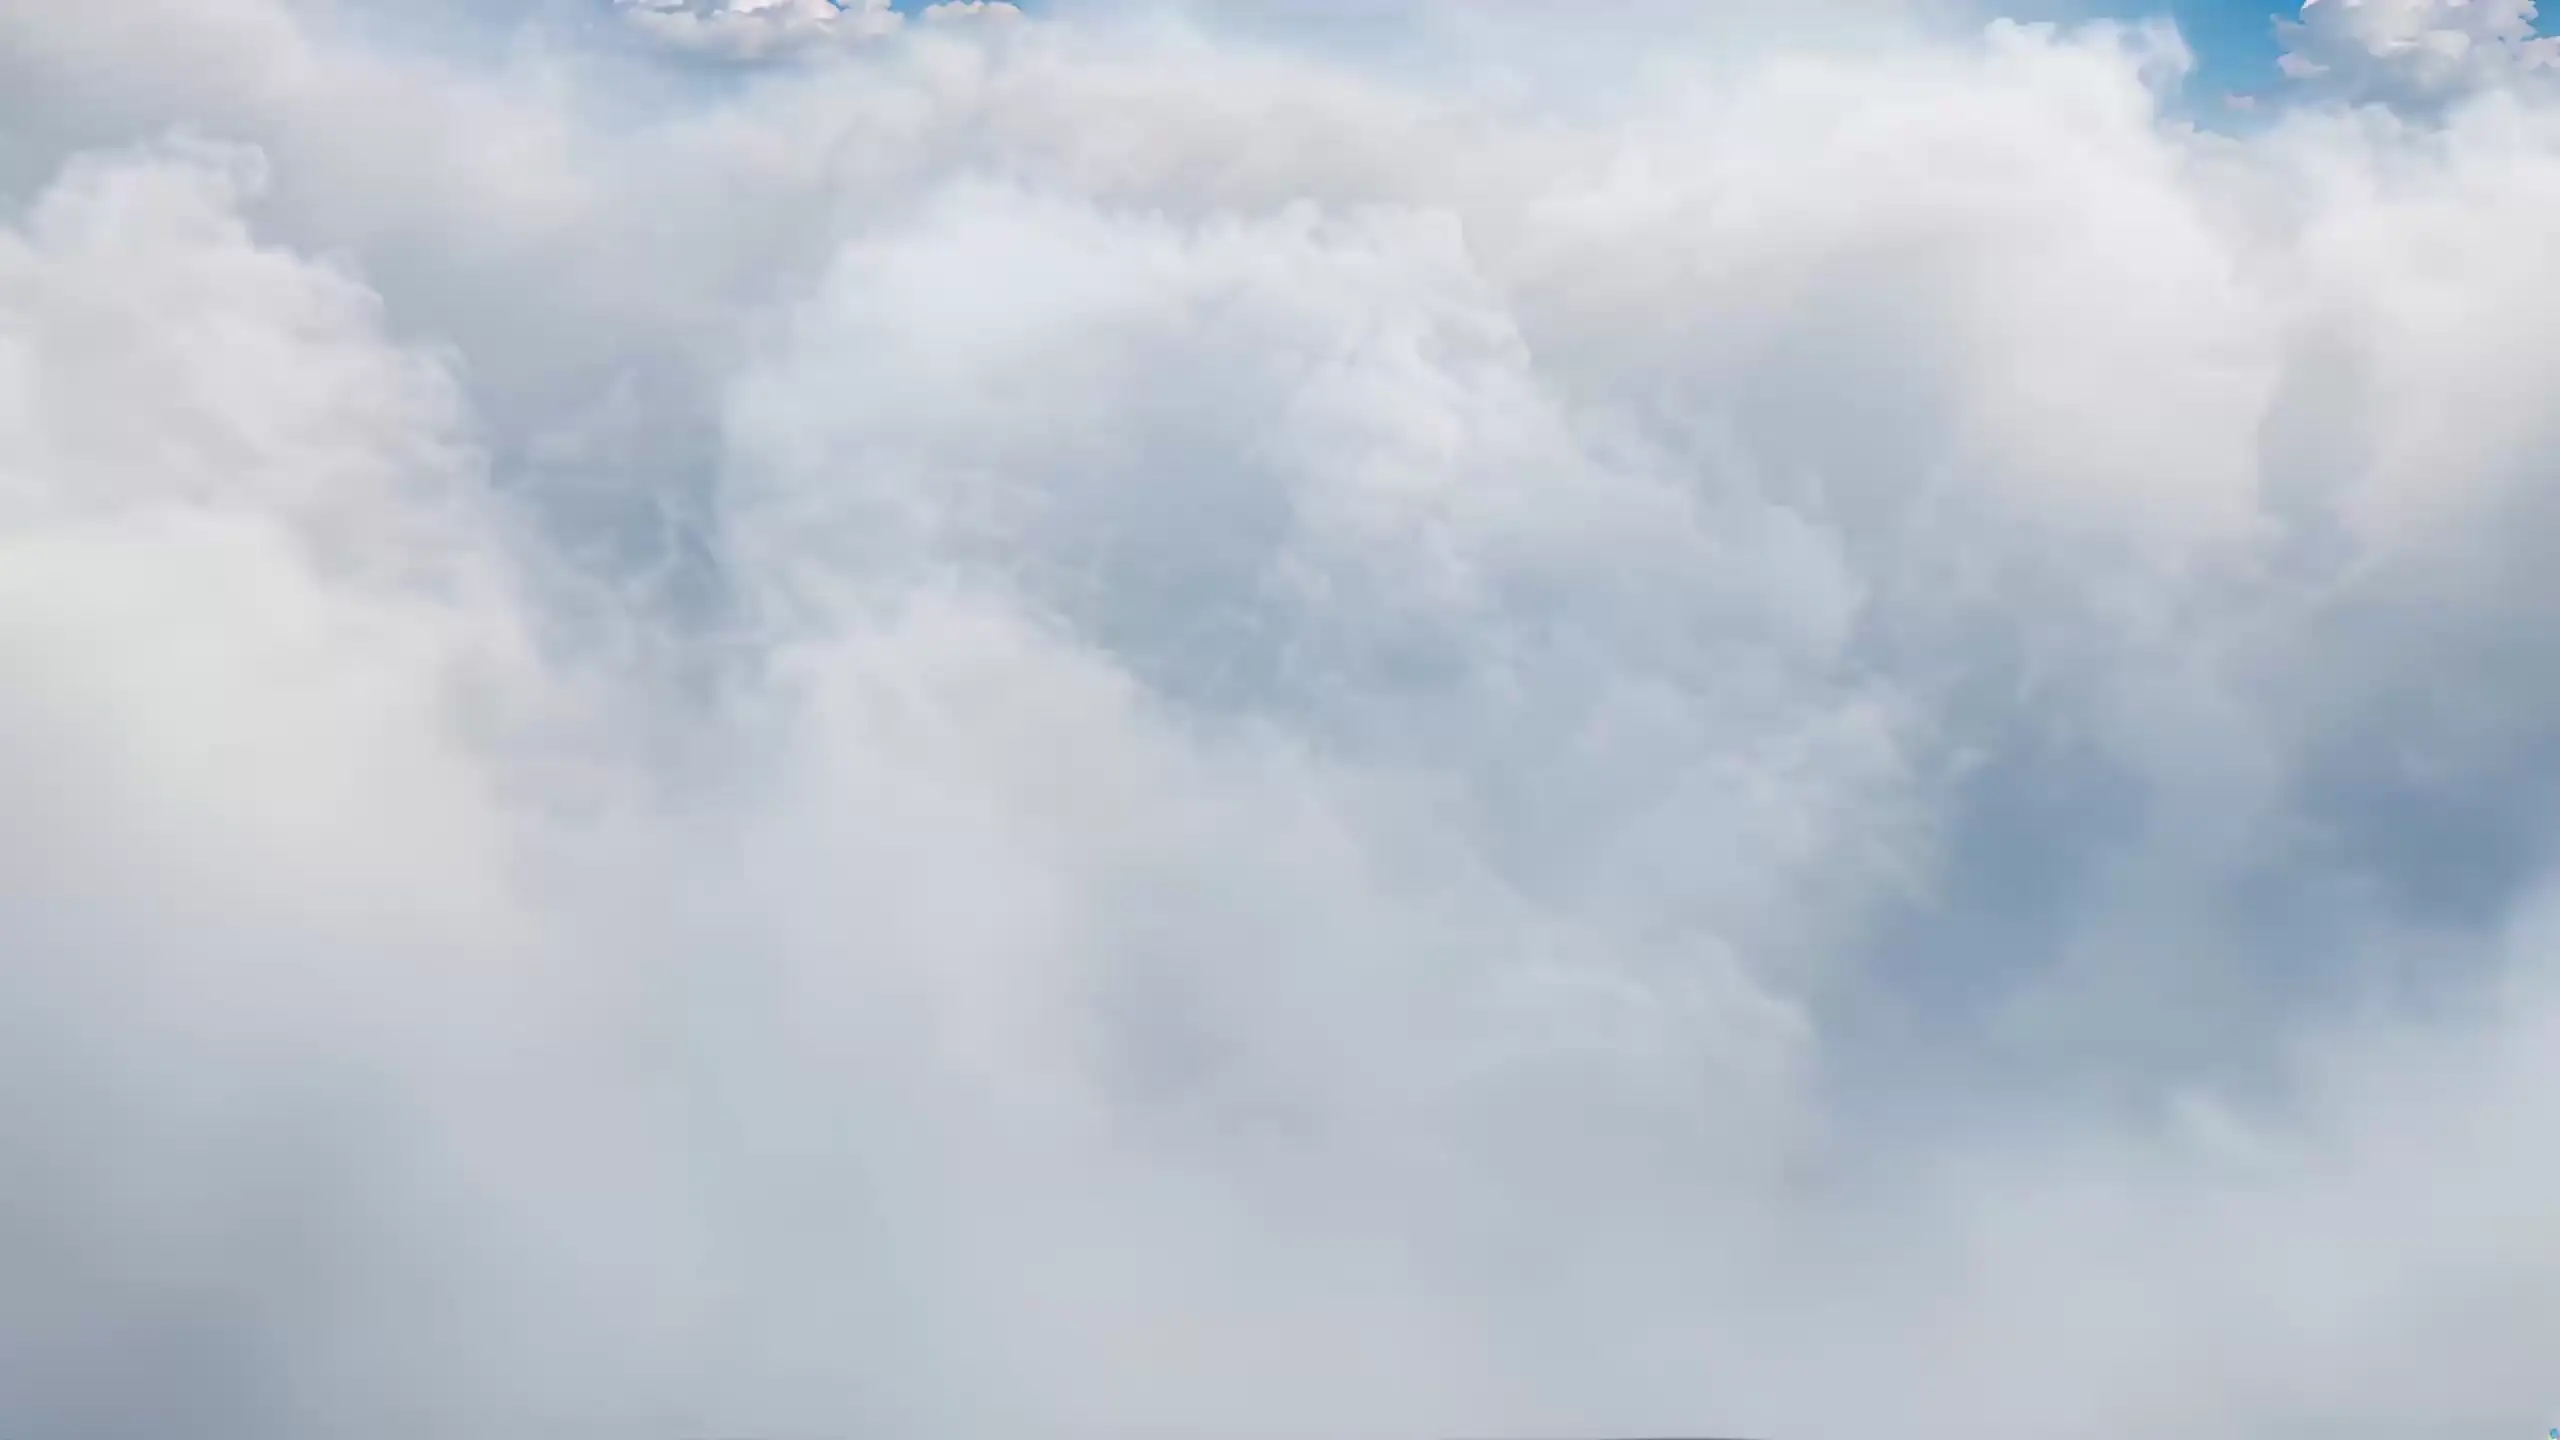
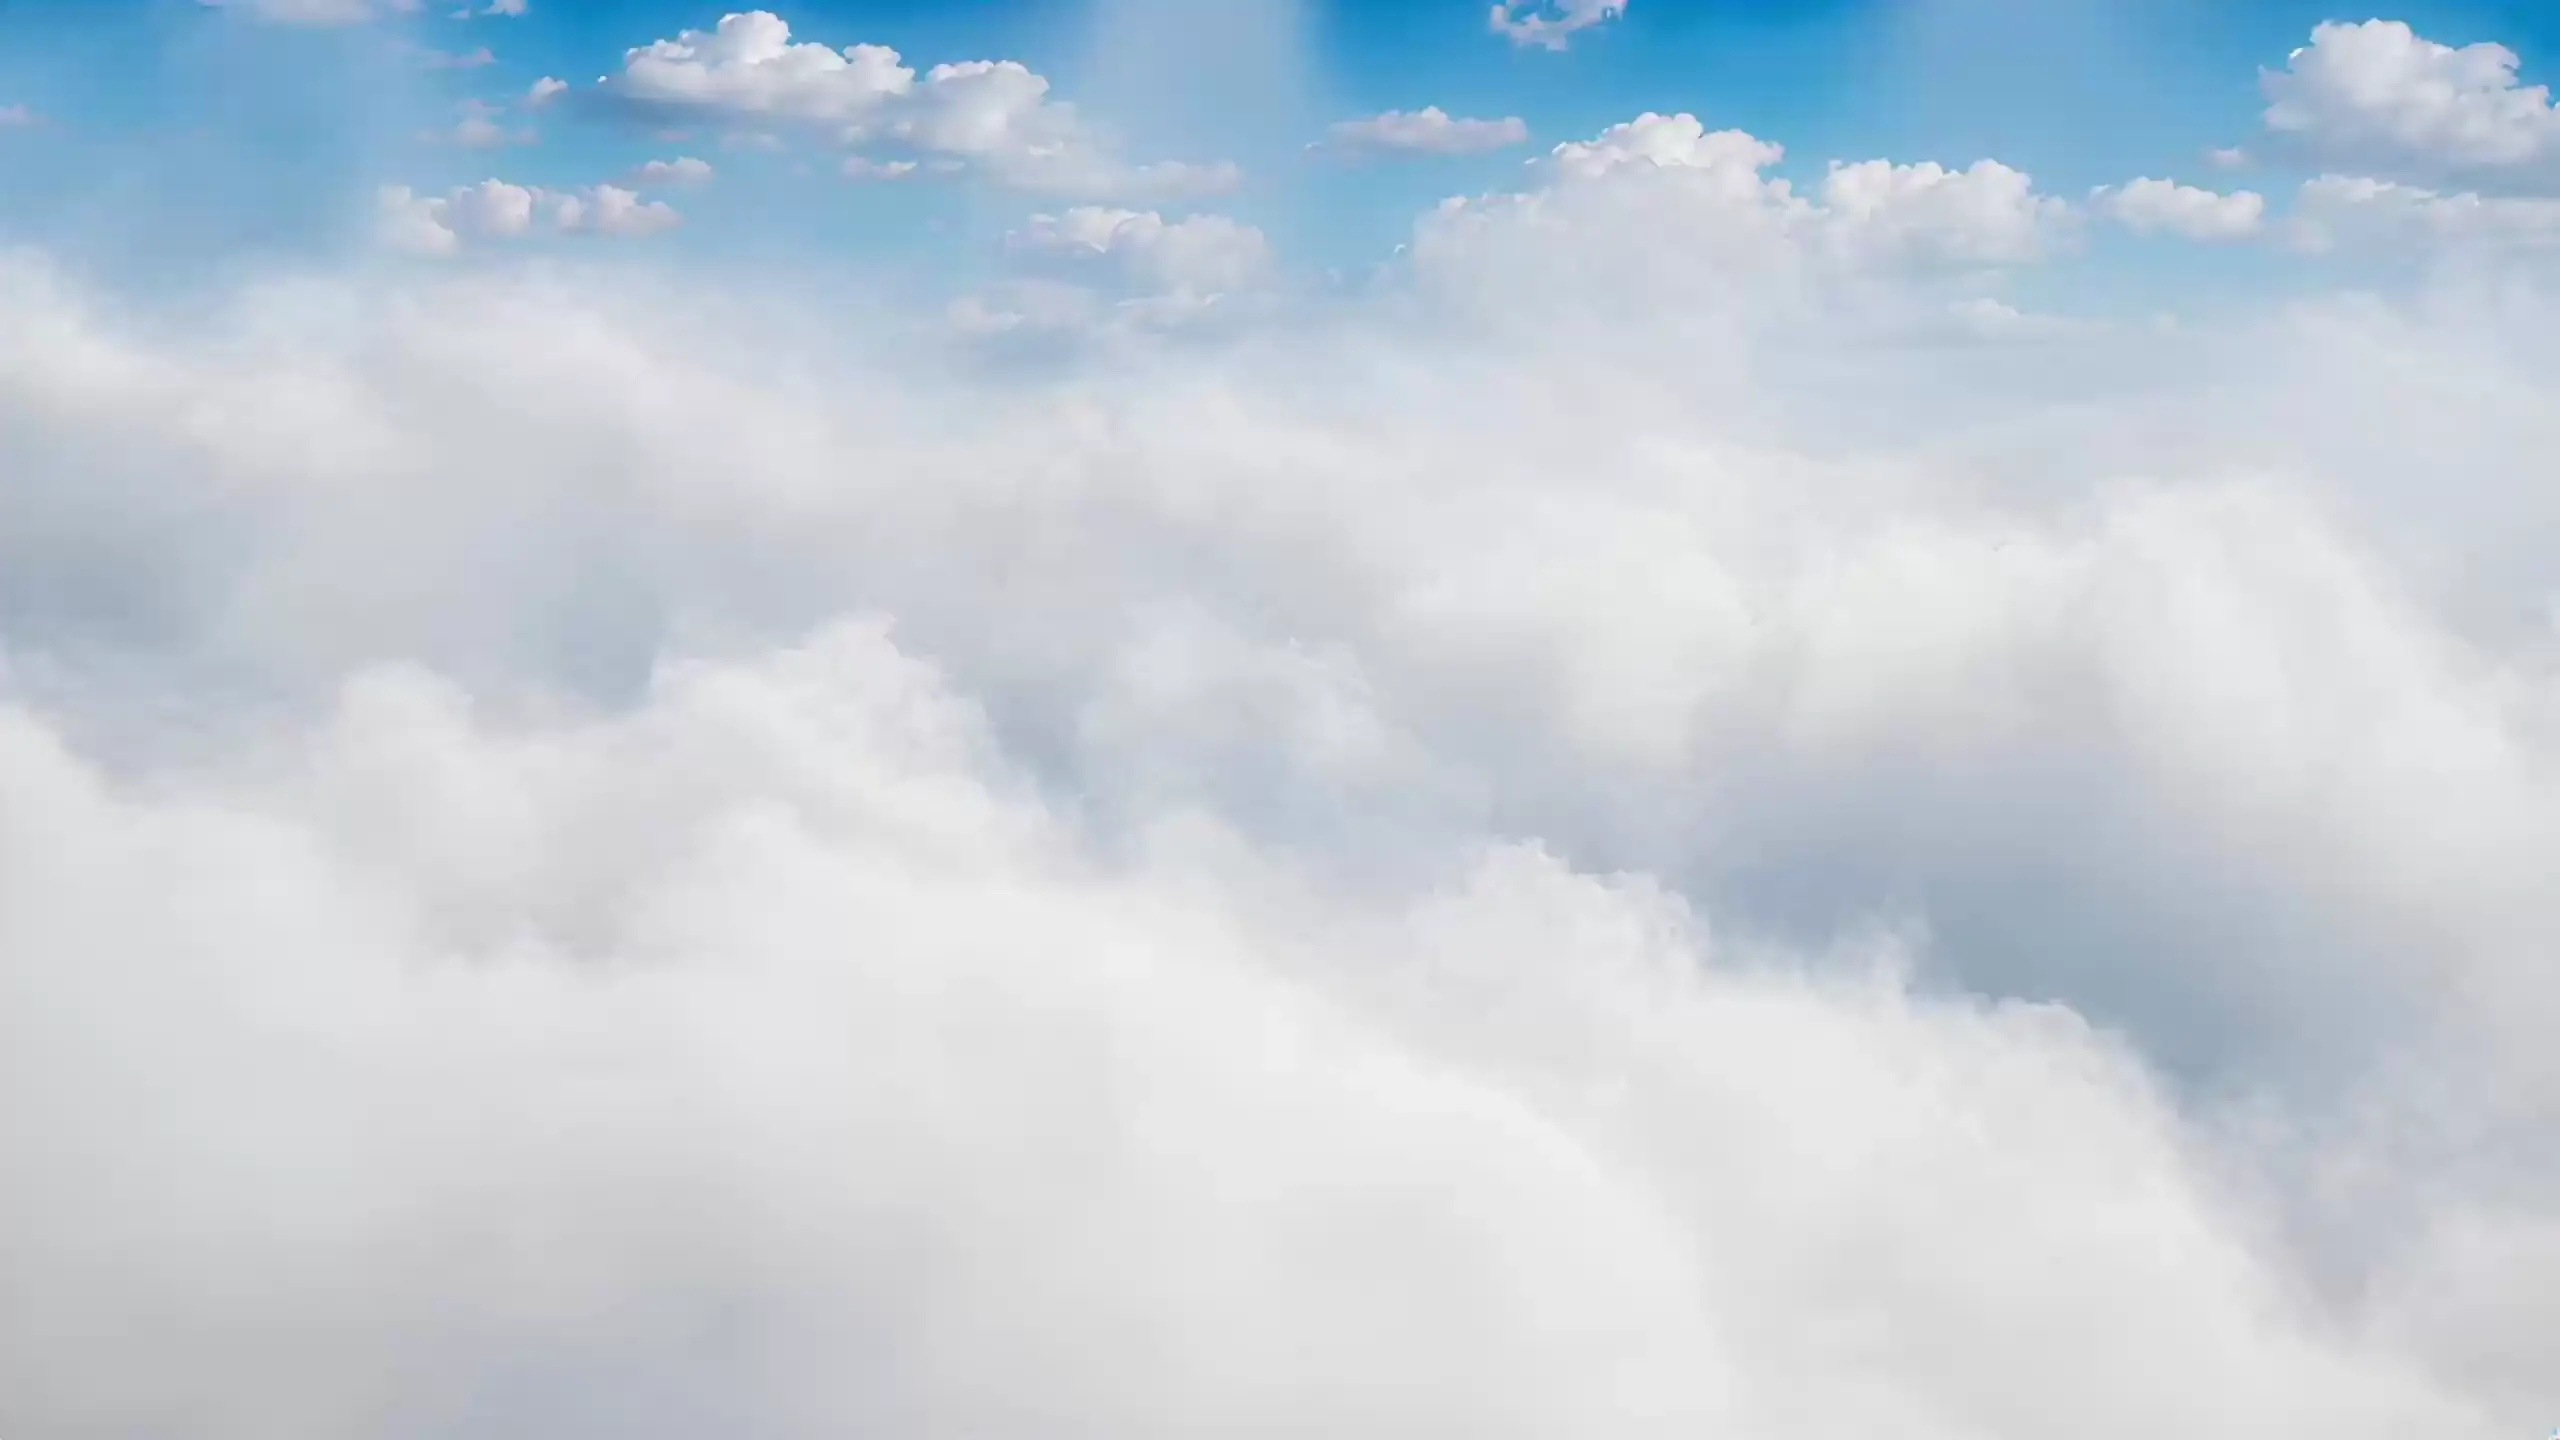
Updates

diff --git a/index.html b/index.html
@@ -65,10 +65,28 @@
       opacity: 1;
       transform: scale(1);
     }
+    .preloader-percentage-container {
+      margin-top: 24px;
+      opacity: 0;
+      transform: translateY(10px);
+      transition: opacity 1.2s cubic-bezier(0.4, 0, 0.2, 1), transform 1.2s cubic-bezier(0.4, 0, 0.2, 1);
+      transition-delay: 0.3s;
+    }
+    .preloader.show-logo .preloader-percentage-container {
+      opacity: 0.85;
+      transform: translateY(0);
+    }
+    .preloader-percentage {
+      font-family: 'Montserrat', sans-serif;
+      font-size: 16px;
+      font-weight: 500;
+      color: #fff;
+      letter-spacing: 2px;
+    }
   </style>
 
   <link rel="icon" type="image/svg+xml" href="assets/img/logo.svg">
-  <script type="module" crossorigin src="./assets/index-SiO4SoAd.js"></script>
+  <script type="module" crossorigin src="./assets/index-ijcMXMs9.js"></script>
   <link rel="stylesheet" crossorigin href="./assets/index-BlTjfina.css">
 </head>
 <body>
@@ -78,6 +96,9 @@
     <video id="preloaderVideo" class="preloader-video-bg" autoplay muted playsinline preload="auto" poster="assets/video/preloader_poster.webp" src="assets/video/preloader.mp4"></video>
     <div class="preloader-content">
       <img src="assets/img/logo.svg" alt="Redling Hotel Logo" class="preloader-logo">
+      <div class="preloader-percentage-container">
+        <span id="preloaderPercentage" class="preloader-percentage">0%</span>
+      </div>
     </div>
   </div>
 

diff --git a/assets/index-ijcMXMs9.js b/assets/index-ijcMXMs9.js
@@ -1,0 +1,1 @@
+(function(){const n=document.createElement("link").relList;if(n&&n.supports&&n.supports("modulepreload"))return;for(const r of document.querySelectorAll('link[rel="modulepreload"]'))t(r);new MutationObserver(r=>{for(const o of r)if(o.type==="childList")for(const c of o.addedNodes)c.tagName==="LINK"&&c.rel==="modulepreload"&&t(c)}).observe(document,{childList:!0,subtree:!0});function s(r){const o={};return r.integrity&&(o.integrity=r.integrity),r.referrerPolicy&&(o.referrerPolicy=r.referrerPolicy),r.crossOrigin==="use-credentials"?o.credentials="include":r.crossOrigin==="anonymous"?o.credentials="omit":o.credentials="same-origin",o}function t(r){if(r.ep)return;r.ep=!0;const o=s(r);fetch(r.href,o)}})();const y=[null,{forward:document.getElementById("videoRooms"),reverse:document.getElementById("videoRoomsRev")},{forward:document.getElementById("videoPool"),reverse:document.getElementById("videoPoolRev")},{forward:document.getElementById("videoRestaurant"),reverse:document.getElementById("videoRestaurantRev")},{forward:document.getElementById("videoAtmosphere"),reverse:document.getElementById("videoAtmosphereRev")},{forward:document.getElementById("videoContacts"),reverse:document.getElementById("videoContactsRev")}],d=document.getElementById("videoHero"),T=y.length,L=document.getElementById("sidebar"),w=document.getElementById("menuToggle"),I=document.getElementById("phoneBtn"),D=document.getElementById("phoneDropMenu"),X=document.querySelectorAll(".menu-link"),Y=["hero","rooms","pool","restaurant","atmosphere","contacts"];let l=0,p=!1;w&&L&&(w.addEventListener("click",e=>{e.stopPropagation(),w.classList.toggle("open"),L.classList.toggle("open")}),X.forEach(e=>{e.addEventListener("click",()=>{window.innerWidth<=991&&(w.classList.remove("open"),L.classList.remove("open"))})}),document.addEventListener("click",e=>{window.innerWidth<=991&&L.classList.contains("open")&&!L.contains(e.target)&&!w.contains(e.target)&&(w.classList.remove("open"),L.classList.remove("open"))}));I&&D&&(I.addEventListener("click",e=>{e.stopPropagation(),I.classList.toggle("open"),D.classList.toggle("show")}),document.addEventListener("click",e=>{!I.contains(e.target)&&!D.contains(e.target)&&(I.classList.remove("open"),D.classList.remove("show"))}));X.forEach(e=>{e.addEventListener("click",n=>{n.preventDefault();const s=e.getAttribute("href");if(!s||!s.startsWith("#"))return;const t=Y.indexOf(s.slice(1));t!==-1&&t!==l&&!p&&E(t)})});function ne(e){const n=Y[e];X.forEach(s=>{s.classList.toggle("active",s.getAttribute("href")===`#${n}`)})}function P(e){document.querySelectorAll(".content-section").forEach((s,t)=>{s.classList.toggle("active",t===e),t===e&&(s.scrollTop=0,requestAnimationFrame(()=>{s.scrollTop=0}))}),e===Y.indexOf("contacts")&&se()}const R=document.querySelector("#contacts .map-wrapper iframe");function se(){R&&R.dataset.src&&(R.src=R.dataset.src,R.removeAttribute("data-src"))}const G=document.getElementById("mapTouchGuard");G&&G.addEventListener("click",()=>{se(),G.classList.add("hidden")});function $(){if(window.innerWidth>991)return null;const e=document.querySelector(".content-section.active");return e&&e.scrollHeight>e.clientHeight+1?e:null}function ce(){d.style.opacity="1",d.style.zIndex="1",d.style.transition="none";for(let e=1;e<T;e++){const n=y[e];n.forward.style.opacity="0",n.forward.style.zIndex="1",n.forward.style.transition="none",n.forward.pause(),n.reverse.style.opacity="0",n.reverse.style.zIndex="1",n.reverse.style.transition="none",n.reverse.pause()}}function j(e){return e===0?d:y[e].forward}function C(e,n=0){return new Promise(s=>{if(isNaN(e.duration)||e.duration===0){e.currentTime=n,s();return}const t=()=>{e.removeEventListener("seeked",t),s()};e.addEventListener("seeked",t),e.currentTime=n,setTimeout(()=>{e.removeEventListener("seeked",t),s()},150)})}const W=new Map;function x(e){if(!e)return Promise.resolve();if(W.has(e))return W.get(e);if(e.dataset.src&&!e.getAttribute("src")&&(e.src=e.dataset.src,e.removeAttribute("data-src"),e.preload="auto",e.load()),e.readyState>=3){const s=Promise.resolve();return W.set(e,s),s}const n=new Promise(s=>{const t=()=>{e.removeEventListener("canplaythrough",t),e.removeEventListener("error",t),clearTimeout(r),s()},r=setTimeout(t,8e3);e.addEventListener("canplaythrough",t),e.addEventListener("error",t)});return W.set(e,n),n}let J=!1;function le(){if(!J){J=!0;for(let e=1;e<T;e++)y[e]&&(x(y[e].forward),x(y[e].reverse))}}async function E(e){if(e===l||e<0||e>=T||p)return;p=!0,ne(e),P(-1);const n=e>l,s=l,t=j(s),r=s===0||e===0;if(n){const o=y[e].forward;await x(o),o.style.opacity="0",o.style.transition="none",await C(o,0),r?(o.style.zIndex="2",o.style.transition="opacity 0.2s ease",o.style.opacity="1",o.play().catch(()=>{}),setTimeout(()=>{t.style.opacity="0",t.pause()},200)):(o.style.zIndex="1",o.style.transition="none",o.style.opacity="1",t.style.opacity="0",t.pause(),o.play().catch(()=>{})),o.onended=()=>{o.pause(),o.onended=null,r&&(o.style.zIndex="1",o.style.transition="none"),l=e,P(e),p=!1}}else{const o=y[s].reverse,c=j(e);await Promise.all([x(o),x(c)]),o.style.opacity="0",o.style.transition="none",await C(o,0),r?(o.style.zIndex="2",o.style.transition="opacity 0.2s ease",o.style.opacity="1",o.play().catch(()=>{}),setTimeout(async()=>{t.style.opacity="0",t.pause(),c.currentTime=0,c.loop=!0,c.style.opacity="1",c.style.zIndex="1",c.style.transition="none";try{await c.play()}catch{}},200),o.onended=()=>{o.pause(),o.onended=null,o.style.transition="opacity 0.2s ease",o.style.opacity="0",P(e),setTimeout(()=>{o.style.zIndex="1",o.style.transition="none",l=e,p=!1},200)}):(await C(c,c.duration-.01),c.pause(),o.style.opacity="1",t.style.opacity="0",t.pause(),o.play().catch(()=>{}),o.onended=()=>{o.pause(),o.onended=null,c.style.opacity="1",o.style.opacity="0",l=e,P(e),p=!1})}}let A=0;const ee=50;function de(e){const n=$();if(n){const s=n.scrollTop<=0,t=n.scrollTop+n.clientHeight>=n.scrollHeight-1;if(e.deltaY>0&&!t||e.deltaY<0&&!s)return}e.preventDefault(),!p&&(A+=e.deltaY,A>ee?(A=0,l<T-1&&E(l+1)):A<-ee&&(A=0,l>0&&E(l-1)))}document.addEventListener("wheel",de,{passive:!1});let re=0,ae=0;const te=60;document.addEventListener("touchstart",e=>{re=e.touches[0].clientY;const n=document.querySelector(".content-section.active");ae=n?n.scrollTop:0},{passive:!0});document.addEventListener("touchend",e=>{if(p)return;const n=re-e.changedTouches[0].clientY,s=$();if(s){if(Math.abs(s.scrollTop-ae)>2)return;const t=s.scrollTop<=1,r=s.scrollTop+s.clientHeight>=s.scrollHeight-2;if(n>0&&!r||n<0&&!t)return}n>te&&l<T-1?E(l+1):n<-te&&l>0&&E(l-1)},{passive:!0});document.addEventListener("touchmove",e=>{const n=$();n&&n.contains(e.target)||e.preventDefault()},{passive:!1});document.addEventListener("keydown",e=>{p||(e.key==="ArrowDown"||e.key==="PageDown"?(e.preventDefault(),l<T-1&&E(l+1)):(e.key==="ArrowUp"||e.key==="PageUp")&&(e.preventDefault(),l>0&&E(l-1)))});const g=document.getElementById("videoModal"),O=document.getElementById("youtubeIframe"),oe=document.getElementById("openVideoBtn"),F=document.getElementById("closeVideoBtn");oe&&g&&O&&oe.addEventListener("click",e=>{e.preventDefault(),O.src="https://www.youtube.com/embed/n7kd0tzGD2s?autoplay=1",g.style.display="flex",setTimeout(()=>g.classList.add("show"),10)});F&&g&&O&&(F.addEventListener("click",()=>{g.classList.remove("show"),setTimeout(()=>{g.style.display="none",O.src=""},300)}),g.addEventListener("click",e=>{e.target===g&&F.click()}));ce();ne(0);P(0);const H=document.getElementById("preloader");if(H){let o=function(){var B;const u=d?d.readyState>=3:!0,m=(B=y[1])==null?void 0:B.forward,f=m?m.readyState>=3:!0;return u&&f},i=function(){s&&e&&n&&o()&&h()},h=function(){H.classList.contains("fade-out")||(clearTimeout(k),H.classList.add("fade-out"),d&&d.play().catch(u=>console.log("Hero autoplay blocked/failed:",u)))};var fe=o,pe=i,ye=h;let e=!1,n=!1,s=!1;const t=document.getElementById("preloaderVideo"),r=document.getElementById("preloaderPercentage"),c=()=>{if(!t||!t.duration)return;const u=t.currentTime,m=t.duration||7;let f=0;s?f=100:f=Math.min(97,Math.floor(u/m*98)),r&&(r.textContent=`${f}%`)};if(t?(t.playbackRate=1,t.addEventListener("timeupdate",()=>{c(),t.currentTime>=6.7&&(!o()||!n?t.playbackRate=.15:t.playbackRate=1)}),t.addEventListener("ended",()=>{s=!0,r&&(r.textContent="100%"),i()})):s=!0,setTimeout(()=>{H.classList.add("show-logo")},1e3),d)if(d.readyState>=3)e=!0,i();else{const u=()=>{e=!0,i(),d.removeEventListener("canplay",u),d.removeEventListener("canplaythrough",u),d.removeEventListener("loadeddata",u)};d.addEventListener("canplay",u),d.addEventListener("canplaythrough",u),d.addEventListener("loadeddata",u)}else e=!0;document.readyState==="complete"?(n=!0,i()):window.addEventListener("load",()=>{n=!0,i()});const k=setTimeout(()=>{s=!0,e=!0,n=!0,h()},12e3)}else d&&d.play().catch(()=>{});le();const N={ru:{"nav.hero":"Главная","nav.rooms":"Номера","nav.pool":"Бассейн и Летняя зона","nav.restaurant":"Ресторан","nav.atmosphere":"Атмосфера","nav.contacts":"Контакты","nav.offers":"★ АКЦИИ ★","credits.text":"Создание сайта","hero.subtitle":"ваш уютный дом у моря в Одессе","hero.subhead":"Премиальный комфорт для семейного отдыха и деловых поездок.","hero.text":"Всего 500 метров до пляжа, вдали от городского шума.","hero.cta":"Забронировать номер","hero.video":"Смотреть видео","rooms.subtitle":"★ Дизайнерские номера с премиальным комфортом","rooms.title":"Пространство для идеального отдыха","rooms.text":"Просторные дизайнерские номера с премиальной шумоизоляцией и ортопедическими матрасами. Здесь есть всё для глубокого сна после пляжа или продуктивной работы в тишине.","rooms.cta":"Выбрать номер","rooms.benefit1":"Шумоизоляция","rooms.benefit2":"Ортопедические матрасы","rooms.benefit3":"Wi-Fi","rooms.benefit4":"Мини-бар","pool.subtitle":"★ Бассейн и Летняя зона","pool.title":"Освежающий<br>летний вайб","pool.text":"Огромный открытый бассейн (80 м²) с лаунж-зоной и удобными шезлонгами. Идеальное место, чтобы поймать ленивое курортное настроение, не покидая территорию отеля.","pool.benefit1":"80 м² бассейн","pool.benefit2":"Лаунж-бар","pool.benefit3":"Шезлонги","restaurant.subtitle":"★ Ресторан Redling","restaurant.title":"Гастрономическая<br>Одесса","restaurant.text":"Авторское прочтение черноморской и европейской кухни в стильном классическом интерьере. Лаундж-зона для неторопливых ужинов и раздельные залы для курящих и некурящих.","restaurant.cta":"Забронировать столик","restaurant.menu":"Меню ресторана","restaurant.weekdays":"Будни:","restaurant.weekends":"Выходные:","atmosphere.subtitle":"★ Об отеле","atmosphere.title":"Атмосфера, в которую<br>хочется возвращаться","atmosphere.text":"Redling — это сочетание искреннего одесского гостеприимства и европейского сервиса. Мы создали пространство, где вы чувствуете себя абсолютно свободно, окруженные заботой нашей команды 24/7.","atmosphere.gallery_btn":"Посмотреть фото","contacts.subtitle":"★ Локация и Контакты","contacts.title":"Ждем вас<br>в Redling","contacts.fact1":"500 метров до моря — 7 минут пешком","contacts.fact2":"ул. Дача Ковалевского, 71, Одесса","contacts.fact3":"10 км до центра — тихий, зелёный район","contacts.reception":"Ресепшен","contacts.restaurant":"Ресторан","contacts.email":"Email","contacts.route":"Построить маршрут","contacts.map_hint":"Нажмите, чтобы управлять картой"},en:{"nav.hero":"Home","nav.rooms":"Rooms","nav.pool":"Pool & Summer Zone","nav.restaurant":"Restaurant","nav.atmosphere":"Atmosphere","nav.contacts":"Contacts","nav.offers":"★ OFFERS ★","credits.text":"Website Design","hero.subtitle":"your cozy home by the sea in Odesa","hero.subhead":"Premium comfort for family holidays and business trips.","hero.text":"Only 500 meters to the beach, far from city noise.","hero.cta":"Book a room","hero.video":"Watch video","rooms.subtitle":"★ Designer rooms with premium comfort","rooms.title":"Space for perfect relaxation","rooms.text":"Spacious designer rooms with premium soundproofing and orthopedic mattresses. Everything you need for a deep sleep after the beach or productive work in silence.","rooms.cta":"Choose a room","rooms.benefit1":"Soundproofing","rooms.benefit2":"Orthopedic mattresses","rooms.benefit3":"Wi-Fi","rooms.benefit4":"Minibar","pool.subtitle":"★ Pool & Summer Zone","pool.title":"Refreshing<br>summer vibe","pool.text":"Huge outdoor swimming pool (80 m²) with a lounge area and comfortable sunbeds. The perfect place to catch a lazy resort mood without leaving the hotel grounds.","pool.benefit1":"80 m² Pool","pool.benefit2":"Lounge Bar","pool.benefit3":"Sunbeds","restaurant.subtitle":"★ Redling Restaurant","restaurant.title":"Gastronomic<br>Odesa","restaurant.text":"Author's interpretation of Black Sea and European cuisine in a stylish classic interior. Lounge area for leisurely dinners and separate halls for smokers and non-smokers.","restaurant.cta":"Book a table","restaurant.menu":"Restaurant menu","restaurant.weekdays":"Weekdays:","restaurant.weekends":"Weekends:","atmosphere.subtitle":"★ About Hotel","atmosphere.title":"Atmosphere you<br>want to return to","atmosphere.text":"Redling is a combination of genuine Odesa hospitality and European service. We have created a space where you feel absolutely free, surrounded by the care of our team 24/7.","atmosphere.gallery_btn":"See photos","contacts.subtitle":"★ Location & Contacts","contacts.title":"Waiting for you<br>at Redling","contacts.fact1":"500 meters to the sea — 7 minutes walk","contacts.fact2":"71 Dacha Kovalevskoho St, Odesa","contacts.fact3":"10 km to the center — quiet, green area","contacts.reception":"Reception","contacts.restaurant":"Restaurant","contacts.email":"Email","contacts.route":"Get directions","contacts.map_hint":"Tap to interact with the map"},ua:{"nav.hero":"Головна","nav.rooms":"Номери","nav.pool":"Басейн та Літня зона","nav.restaurant":"Ресторан","nav.atmosphere":"Атмосфера","nav.contacts":"Контакти","nav.offers":"★ АКЦІЇ ★","credits.text":"Створення сайту","hero.subtitle":"ваш затишний дім біля моря в Одесі","hero.subhead":"Преміальний комфорт для сімейного відпочинку та ділових поїздок.","hero.text":"Всього 500 метрів до пляжу, далеко від міського шуму.","hero.cta":"Забронювати номер","hero.video":"Дивитися відео","rooms.subtitle":"★ Дизайнерські номери з преміальним комфортом","rooms.title":"Простір для ідеального відпочинку","rooms.text":"Просторі дизайнерські номери з преміальною шумоізоляцією та ортопедичними матрацами. Тут є все для глибокого сну після пляжу або продуктивної роботи в тиші.","rooms.cta":"Обрати номер","rooms.benefit1":"Шумоізоляція","rooms.benefit2":"Ортопедичні матраци","rooms.benefit3":"Wi-Fi","rooms.benefit4":"Міні-бар","pool.subtitle":"★ Басейни та Літня зона","pool.title":"Освіжаючий<br>літній вайб","pool.text":"Величезний відкритий басейн (80 м²) з лаунж-зоною та зручними шезлонгами. Ідеальне місце, щоб зловити ледачий курортний настрій, не покидаючи територію готелю.","pool.benefit1":"80 м² басейн","pool.benefit2":"Лаунж-бар","pool.benefit3":"Шезлонги","restaurant.subtitle":"★ Ресторан Redling","restaurant.title":"Гастрономічна<br>Одеса","restaurant.text":"Авторське прочитання чорноморської та європейської кухні в стильному класичному інтер'єрі. Лаунж-зона для неспішних вечерь та окремі зали для курців та некурців.","restaurant.cta":"Забронювати столик","restaurant.menu":"Меню ресторану","restaurant.weekdays":"Будні:","restaurant.weekends":"Вихідні:","atmosphere.subtitle":"★ Про готель","atmosphere.title":"Атмосфера, в яку<br>хочеться повертатися","atmosphere.text":"Redling — це поєднання щирої одеської гостинності та європейського сервісу. Ми створили простір, де ви почуваєтеся абсолютно вільно, оточені турботою нашої команди 24/7.","atmosphere.gallery_btn":"Подивитися фото","contacts.subtitle":"★ Локація та Контакты","contacts.title":"Чекаємо на вас<br>в Redling","contacts.fact1":"500 метрів до моря — 7 хвилин пішки","contacts.fact2":"вул. Дача Ковалевського, 71, Одеса","contacts.fact3":"10 км до центру — тихий, зелений район","contacts.reception":"Ресепшн","contacts.restaurant":"Ресторан","contacts.email":"Email","contacts.route":"Побудувати маршрут","contacts.map_hint":"Натисніть, щоб керувати картою"}};function ue(){const e=document.querySelectorAll(".lang-link"),n=t=>{localStorage.setItem("redling-lang",t),e.forEach(r=>{r.classList.toggle("active",r.getAttribute("data-lang")===t)}),document.querySelectorAll("[data-i18n]").forEach(r=>{const o=r.getAttribute("data-i18n");N[t]&&N[t][o]!==void 0&&(r.innerHTML=N[t][o])}),document.documentElement.setAttribute("lang",t)},s=localStorage.getItem("redling-lang")||"ru";n(s),e.forEach(t=>{t.addEventListener("click",r=>{r.preventDefault();const o=t.getAttribute("data-lang");n(o)})})}ue();function me(){const e=document.getElementById("openGalleryBtn"),n=document.getElementById("galleryModal"),s=document.getElementById("closeGalleryBtn"),t=document.getElementById("galleryWrapper"),r=document.getElementById("galleryPrevBtn"),o=document.getElementById("galleryNextBtn"),c=document.querySelectorAll(".gallery-dot");if(!e||!n||!s||!t)return;let i=0;const k=10;let h=!1,u=0,m=0,f=0;const B=a=>a.type.includes("mouse")?a.pageX:a.touches[0].clientX,ie=a=>{m=a,t.style.transform=`translateX(${m}px)`},b=()=>{const a=t.offsetWidth;m=-i*a,f=m,t.style.transition="transform 0.4s cubic-bezier(0.25, 1, 0.5, 1)",t.style.transform=`translateX(${m}px)`,c.forEach((S,z)=>{S.classList.toggle("active",z===i)})},K=()=>{i<k-1?i++:i=0,b()},Q=()=>{i>0?i--:i=k-1,b()};e.addEventListener("click",a=>{a.preventDefault(),n.style.display="flex",setTimeout(()=>{n.classList.add("show"),b()},10),document.body.style.overflow="hidden"});const V=()=>{n.classList.remove("show"),setTimeout(()=>{n.style.display="none",document.body.style.overflow="hidden"},300)};s.addEventListener("click",V),n.addEventListener("click",a=>{a.target===n&&V()}),o.addEventListener("click",K),r.addEventListener("click",Q),c.forEach(a=>{a.addEventListener("click",()=>{i=parseInt(a.getAttribute("data-index")),b()})}),window.addEventListener("resize",b);const U=a=>{h=!0,u=B(a),t.style.transition="none",a.type.includes("touch")||a.preventDefault()},Z=a=>{if(!h)return;const z=B(a)-u;let v=f+z;const q=0,_=-9*t.offsetWidth;v>q?v=q+(v-q)*.3:v<_&&(v=_+(v-_)*.3),ie(v)},M=()=>{if(!h)return;h=!1;const a=m-f,S=60;a<-S&&i<k-1?i++:a>S&&i>0&&i--,b()};t.addEventListener("touchstart",U,{passive:!0}),t.addEventListener("touchmove",Z,{passive:!0}),t.addEventListener("touchend",M),t.addEventListener("mousedown",U),t.addEventListener("mousemove",Z),t.addEventListener("mouseup",M),t.addEventListener("mouseleave",M),document.addEventListener("keydown",a=>{n.classList.contains("show")&&(a.key==="ArrowRight"?K():a.key==="ArrowLeft"?Q():a.key==="Escape"&&V())})}me();